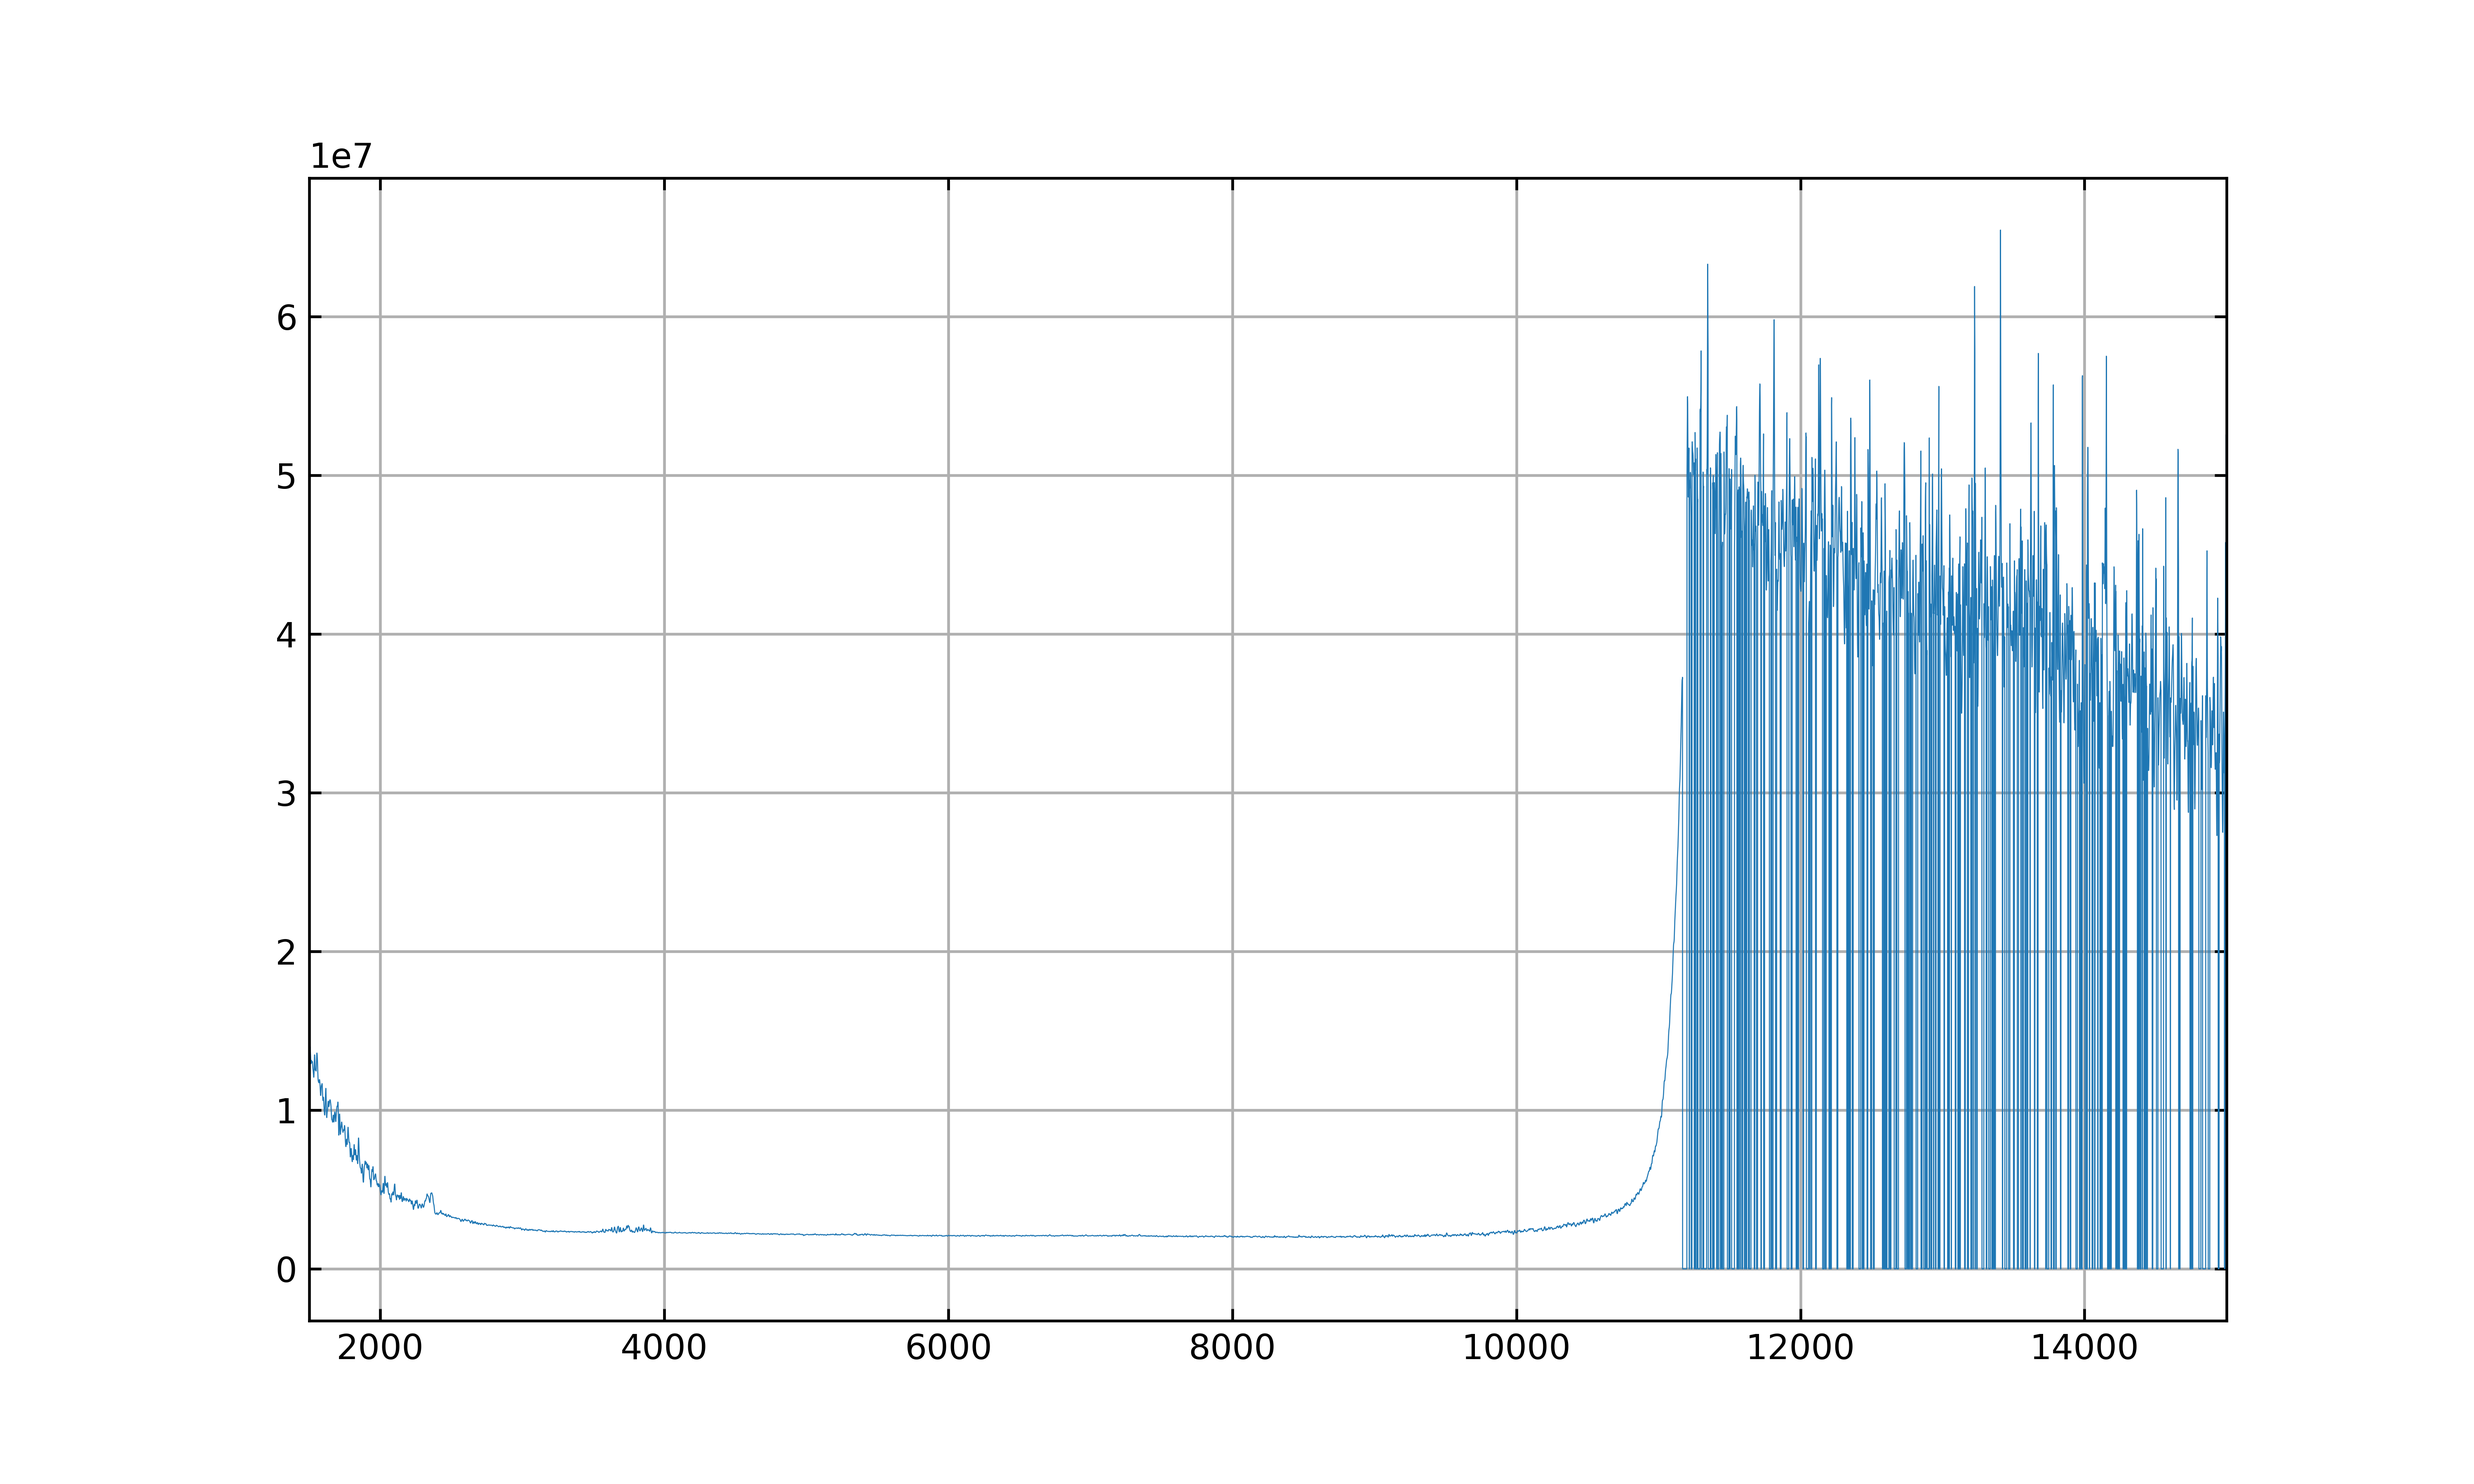
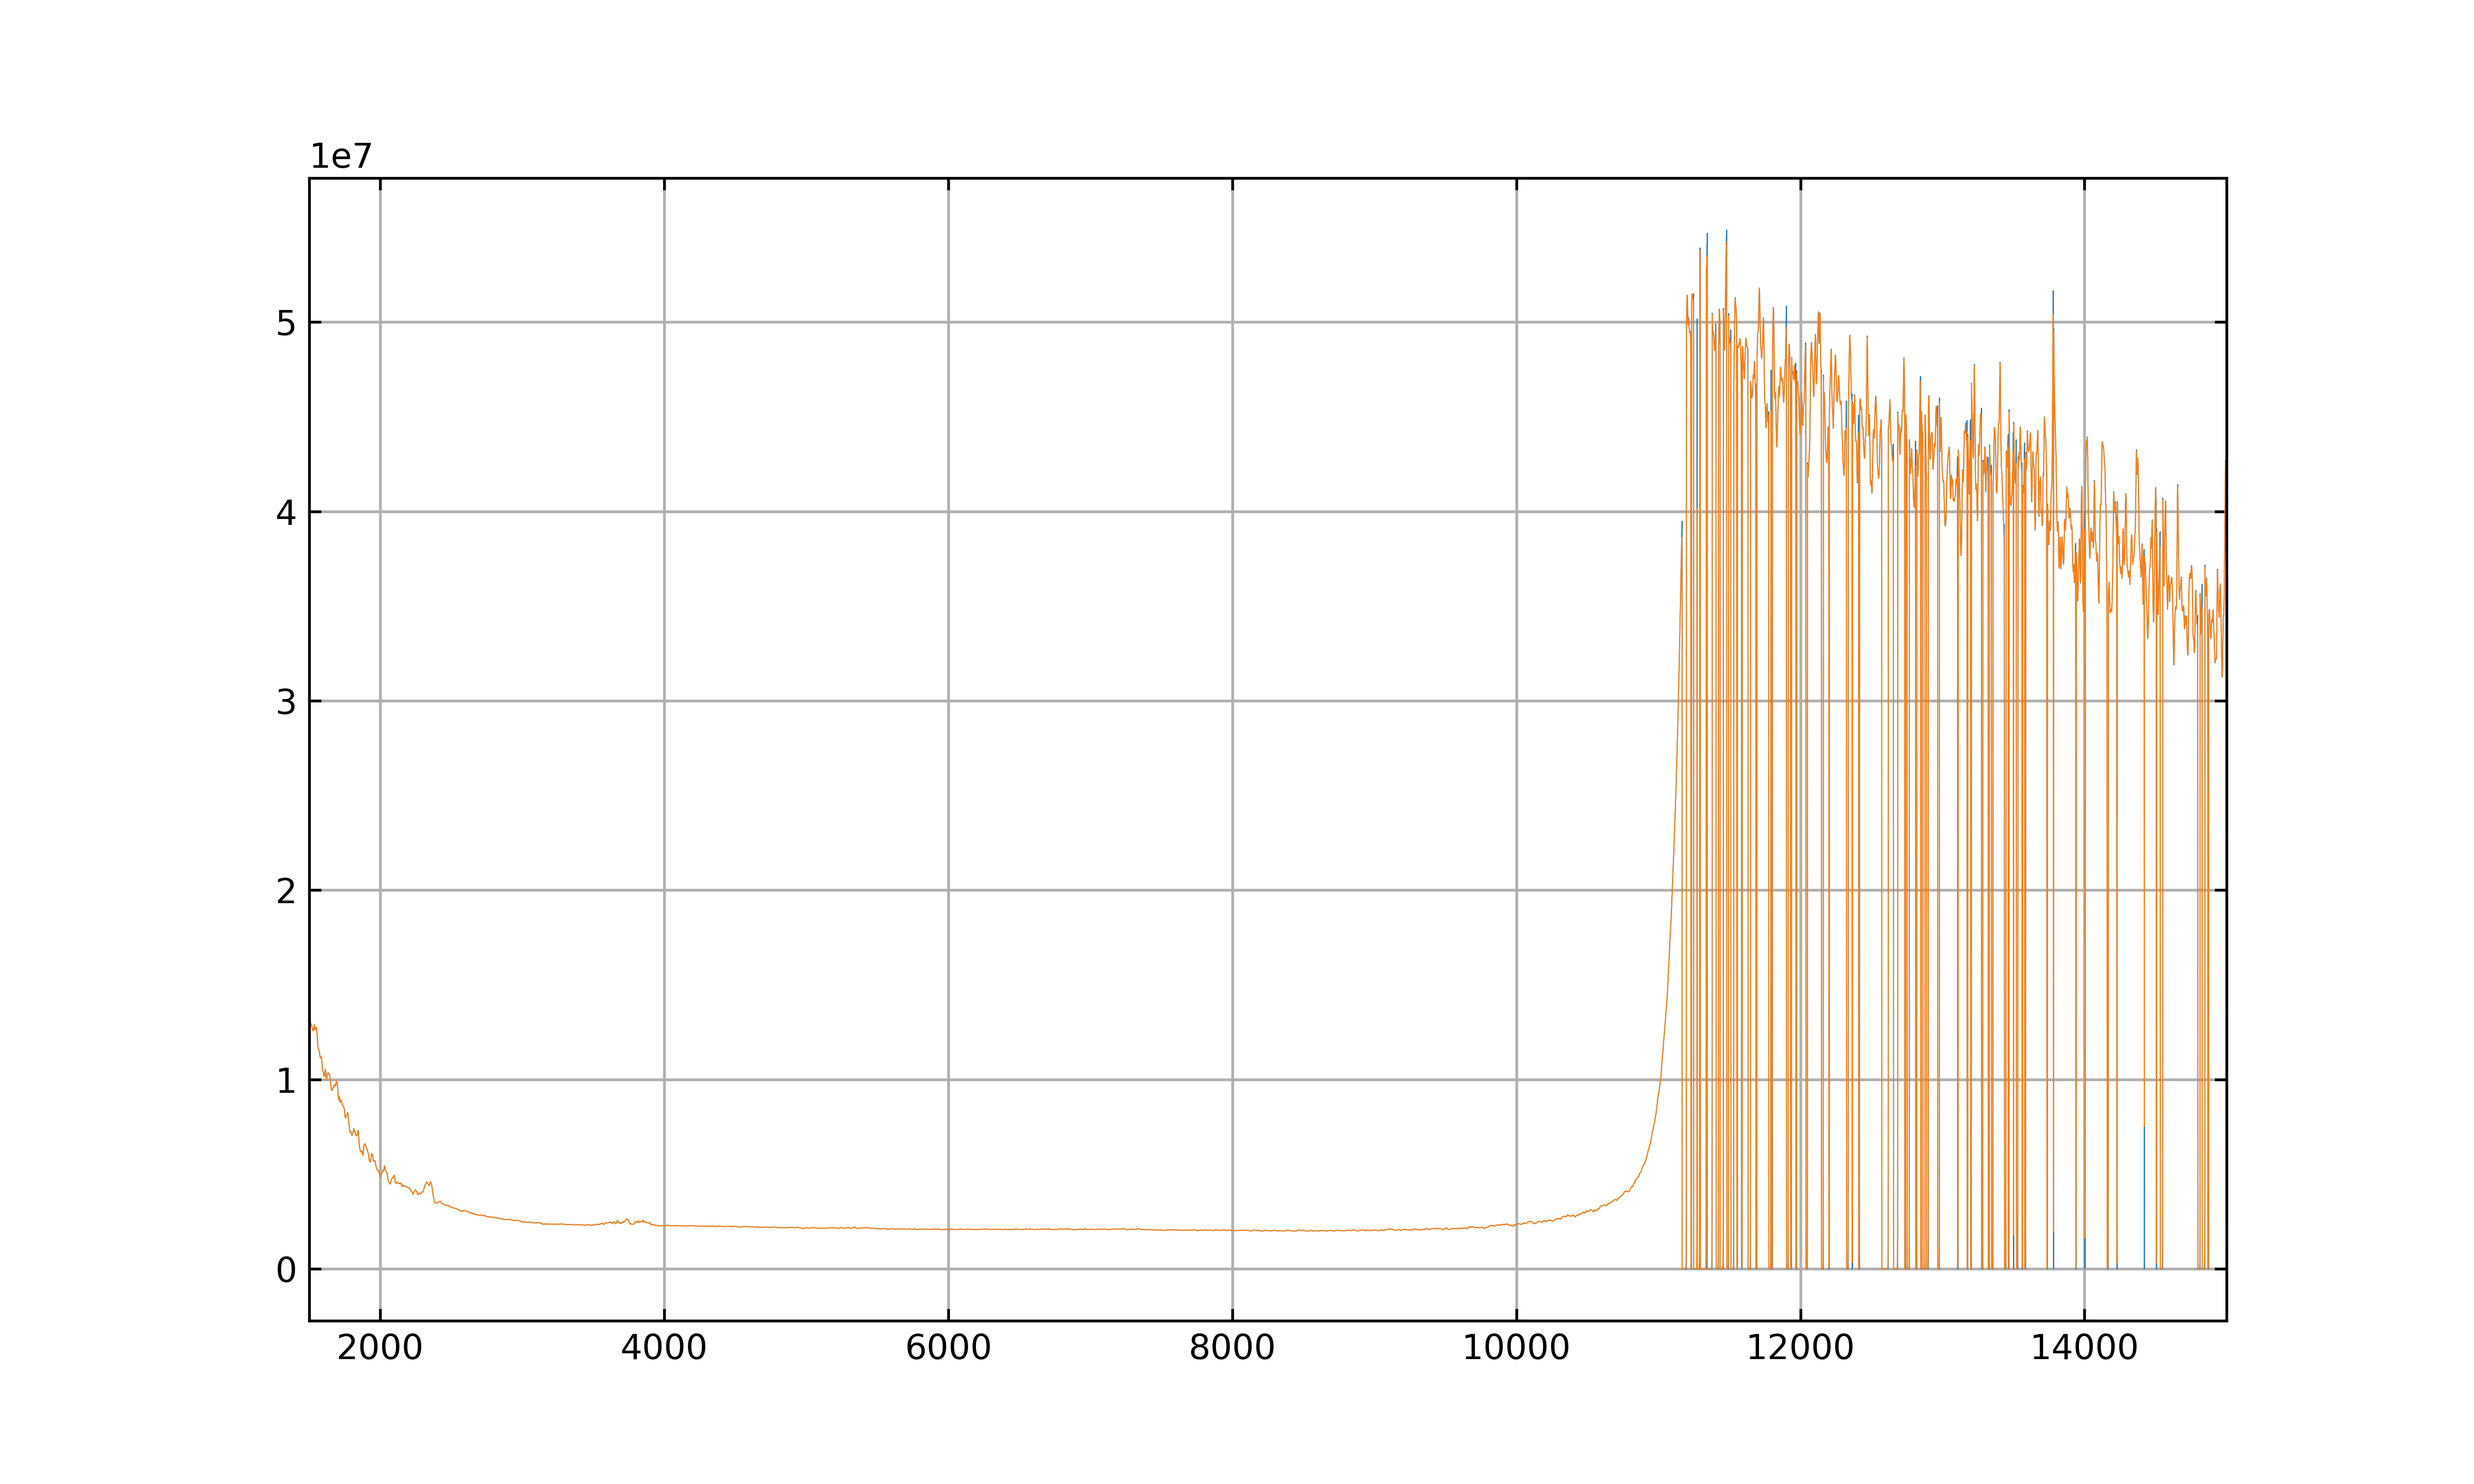
Implement exponential smoothing function and integrate it into beta calculations

Changed region(s): [[0.1247, 0.1867, 0.9038, 0.8711], [0.1247, 0.7156, 0.1558, 0.8089]]

diff --git a/SolidStateOptics/Glätteisen.py b/SolidStateOptics/Glätteisen.py
@@ -1,0 +1,28 @@
+def bügeln(data, alpha = 0.5):
+    """
+    Applies exponential smoothing to the given data. 
+    Higher alpha values give more weight to recent observations.
+    Lower alpha values give more weight to older observations.
+
+    Args:
+        data (list): A list of tuples, where each tuple contains two float values (x, y).
+        alpha (float): Smoothing factor, where 0 < alpha <= 1.
+
+    Returns:
+        list: A list of tuples with smoothed y-values.
+    """
+    if not 0 < alpha <= 1:
+        raise ValueError("Alpha must be between 0 and 1.")
+
+    smoothed_data = []
+    if data:
+        # Initialize the first smoothed value with the first y-value
+        smoothed_y = data[0][1]
+        smoothed_data.append((data[0][0], smoothed_y))
+
+        # Apply exponential smoothing to the rest of the data
+        for x, y in data[1:]:  #alle bis auf den ersten
+            smoothed_y = alpha * y + (1 - alpha) * smoothed_y
+            smoothed_data.append((x, smoothed_y))
+
+    return smoothed_data

diff --git a/SolidStateOptics/directBandgap.py b/SolidStateOptics/directBandgap.py
@@ -4,6 +4,7 @@ from DataReader import read_dpt_file
 import numpy as np
 import scipy.constants as const
 from scipy.optimize import fsolve
+from Glätteisen import bügeln
 
 e = const.e  # Elementary charge in Coulombs
 hbar = const.hbar  # Reduced Planck's constant in J.s
@@ -49,10 +50,14 @@ transmission = read_dpt_file(r'.\SolidStateOptics\RawData\Transmission_ex4\GaAs_
 
 
 beta = []
-for i in calculate_beta_and_R(reflection, transmission):
+beta2 = []
+for i in calculate_beta_and_R(bügeln(reflection, 0.1), bügeln(transmission, 0.1)):
     beta.append([i[0], i[1]])
-
 plot_data(beta)
+for i in calculate_beta_and_R(reflection,transmission):
+    beta2.append([i[0], i[1]])
+
+plot_data(bügeln(beta, 0.8))
 save_and_open("foo")
 
 
